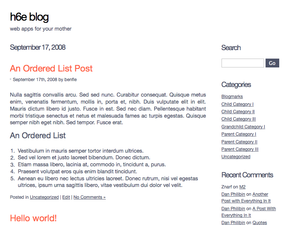
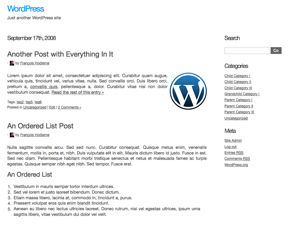
make "blocks" optionnal

diff --git a/style.css b/style.css
@@ -1,8 +1,8 @@
 /*
 Theme Name: Minimal
-Theme URI: http://h6e.net/wordpress/themes/wp-minimal
-Description: A Minimal theme for Wordpress. Built with native bmPress support.
-Version: 3.0.0
+Theme URI: http://h6e.net/wordpress/themes/#minimal
+Description: A Minimal theme for Wordpress.
+Version: 3.1.0
 Author: h6e.net
 Author URI: http://h6e.net/
 */
@@ -17,12 +17,12 @@ Author URI: http://h6e.net/
 }
 
 #content {
-	width:70%;
+	width:67.5%;
 	float:left;
 }
 
 #sidebar {
-	width:30%;
+	width:32.5%;
 	float:left;
 }
 
@@ -64,11 +64,6 @@ Author URI: http://h6e.net/
 	border-bottom-color:white;
 }
 
-.h6e-block {
-	padding:0 1.5em;
-	background:white;
-}
-
 /* Content
 -------------------------------------------------------------- */
 
@@ -77,7 +72,7 @@ Author URI: http://h6e.net/
 }
 
 .day-date {
-	margin-top:1em;
+	margin-top:1.25em;
 	clear:left;
 
 	/* like h6e-extra-title */
@@ -92,7 +87,7 @@ Author URI: http://h6e.net/
 	margin-bottom:0;
 }
 
-.h6e-main-content .entry-title, .h6e-main-content .entry-title a {
+.entry-title, .entry-title a {
 	color:#009DFF;
 }
 
@@ -123,8 +118,8 @@ Author URI: http://h6e.net/
 	font-size:inherit;
 }
 
-#sidebar .h6e-block {
-	margin-left:2em;
+#sidebar .inner-sidebar {
+	margin-left:5em;
 }
 
 #sidebar ul.xoxo {
@@ -149,6 +144,11 @@ Author URI: http://h6e.net/
 .bm-mark .entry-title, .bm-mark .entry-title a {
 	color:#4E5368;
 }
+
+/* h6e "patches"
+-------------------------------------------------------------- */
+
+.h6e-extra-widget { margin:2em 0; }
 
 /* WP images (from WP default theme)
 -------------------------------------------------------------- */

diff --git a/functions.php b/functions.php
@@ -86,6 +86,26 @@ if (!function_exists('h6e_previous_posts_link_attributes')) {
 
 add_filter('previous_posts_link_attributes', 'h6e_previous_posts_link_attributes');
 
+function h6e_post_class( $class = '', $post_id = null )
+{
+	$classes = get_post_class( $class, $post_id );
+	if (empty($classes) && !empty($class)) {
+		$classes = array($class);
+	}
+	echo 'class="' . join( ' ', $classes ) . '"';
+}
+
+function h6e_block_class($class = '')
+{
+	global $menu;
+	$classes = array($class);
+	if ($menu) {
+		$classes = array('has-menu');
+	}
+	$classes = apply_filters('h6e_block_class', $classes);
+	echo 'class="' . join( ' ', $classes ) . '"';
+}
+
 function h6e_minimal_css()
 {
 	if (method_exists('Ld_Ui', 'getCssUrl')) {
@@ -119,6 +139,17 @@ function h6e_minimal_html_header()
 }
 
 add_action('minimal_html_header', 'h6e_minimal_html_header');
+
+function h6e_minimal_menu()
+{
+	global $menu;
+	$params = array( 'fallback_cb' => '', 'echo' => false, 'container' => '', 'container_class' => 'menu-principal',
+		'menu_class' => 'h6e-tabs', 'theme_location' => 'primary', 'depth' => 1 );
+	$menu = wp_nav_menu($params);
+	if (isset($menu)) {
+		echo $menu;
+	}
+}
 
 add_action('admin_menu', 'h6e_minimal_add_theme_page');
 
@@ -167,7 +198,6 @@ function h6e_minimal_add_theme_page()
 		__('Minimal options', 'minimal'), __('Minimal options', 'minimal'), 'edit_theme_options', basename(__FILE__), 'h6e_minimal_theme_page'
 	);
 }
-
 
 function h6e_minimal_theme_page() {
 	if ( isset( $_REQUEST['saved'] ) )
@@ -231,34 +261,59 @@ function h6e_minimal_theme_page() {
 <?php }
 
 function h6e_minimal_head() {
-	$head = "<style type='text/css'>\n<!--";
+	$head = '<style type="text/css">' . "\n";
 	$output = '';
 
+	$rules = array();
+
 	if ( false !== ( $titlecolor = get_option('h6e_minimal_titlecolor') ) && $titlecolor != '#009DFF' ) {
-		$output .= ".h6e-main-content .entry-title, .h6e-main-content .entry-title a { color: $titlecolor; }\n";
+		$rules[] = array('selectors' => array('.entry-title, .entry-title a'), 'property' => 'color', 'value' => $titlecolor);
 	}
 	if ( false !== ( $pagewidth = get_option('h6e_minimal_pagewidth') ) && $pagewidth != 'auto' ) {
-		$output .= ".h6e-main-content { width: $pagewidth; }\n";
+		$rules[] = array('selectors' => array('.h6e-main-content'), 'property' => 'width', 'value' => $pagewidth);
 	}
 	if ( false !== ( $fontsize = get_option('h6e_minimal_fontsize') ) ) {
-		$output .= ".h6e-main-content { font-size: $fontsize; }\n";
+		$rules[] = array('selectors' => array('.h6e-main-content'), 'property' => 'font-size', 'value' => $fontsize);
 	} else {
-		$output .= ".h6e-main-content { font-size: 1.2em; }\n";
+		$rules[] = array('selectors' => array('.h6e-main-content'), 'property' => 'font-size', 'value' => '1.2em');
 	}
 
 	if (defined('LD_APPEARANCE') && constant('LD_APPEARANCE')) {
 		$colors = Ld_Ui::getApplicationColors();
-		$output .= ".day-date, .entry { color:#" . $colors['ld-colors-text-3'] . "; }\n";
-		if ($colors['ld-colors-background'] == $colors['ld-colors-background-3'] && $colors['ld-colors-background'] == $colors['ld-colors-border-3']) {
-			$output .= ".h6e-block { padding:0 }". "\n";
-			$output .= ".h6e-tabs li a { padding-left:0; }". "\n";
-			$output .= ".ld-instance-menu li a, .h6e-tabs li a, .ld-panel-content, .h6e-block, .h6e-page {
-				background:transparent; border:transparent; -moz-box-shadow:none; }";
-		}
-		$output .= ".h6e-main-content .h6e-tabs li.current-menu-item a { border-bottom-color:#" . $colors['ld-colors-background-3'] . "; }". "\n";
+		$rules[] = array(
+			'selectors' => array('.day-date', '.entry'),
+			'property' => 'color',
+			'value' => '#' . $colors['ld-colors-text']);
+		$rules[] = array(
+			'selectors' => array('.h6e-block .day-date', '.h6e-block .entry'),
+			'property' => 'color',
+			'value' => '#' . $colors['ld-colors-text-3']);
+		$rules[] = array(
+			'selectors' => array(
+				'.h6e-main-content .h6e-entry-title',
+				'.h6e-main-content .h6e-entry-title a',
+				'.h6e-main-content .h6e-extra-title'),
+			'property' => 'color',
+			'value' => '#' . $colors['ld-colors-text']);
+		$rules[] = array(
+			'selectors' => array(
+				'.h6e-main-content .h6e-block .h6e-entry-title',
+				'.h6e-main-content .h6e-block .h6e-entry-title a',
+				'.h6e-main-content .h6e-block .h6e-extra-title'),
+			'property' => 'color',
+			'value' => '#' . $colors['ld-colors-title-3']);
+		$rules[] = array(
+			'selectors' => array('.h6e-main-content .h6e-tabs li.current-menu-item a'),
+			'property' => 'color',
+			'value' => '#' . $colors['ld-colors-background-3']);
 	}
 
-	$foot = "--></style>\n";
+	foreach ($rules as $rule) {
+		extract($rule);
+		$output .= sprintf('%s {%s:%s;}'."\n", join(',', $selectors), $property, $value);
+	}
+
+	$foot = "</style>\n";
 	if ( '' != $output )
 		echo $head . $output . $foot;
 }

diff --git a/search.php b/search.php
@@ -2,15 +2,14 @@
 
 <div id="container">
 
-	<?php $menu = wp_nav_menu( array( 'fallback_cb' => '', 'echo' => false, 'container' => '', 'container_class' => 'menu-principal', 'menu_class' => 'h6e-tabs', 'theme_location' => 'primary', 'depth' => 1 ) ); ?>
-	<?php if ($menu) { echo $menu; } ?>
+	<?php h6e_minimal_menu() ?>
 
 	<div id="content">
-		<div class="h6e-block bm-mark-list autopagerize_page_element <?php if ($menu) echo "hasmenu" ?>">
+		<div <?php h6e_block_class('inner-content bm-mark-list autopagerize_page_element') ?>>
 <?php if ( have_posts() ) : ?>
 				<?php get_template_part( 'loop', 'search' ); ?>
 <?php else : ?>
-				<div id="post-0" class="post no-results not-found">
+				<div id="post-0" <?php h6e_post_class('post no-results not-found') ?>>
 					<h2 class="entry-title h6e-entry-title"><?php _e( 'Nothing Found', 'minimal' ); ?></h1>
 					<div class="entry-content h6e-post-content">
 						<p><?php _e( 'Sorry, but nothing matched your search criteria. Please try again with some different keywords.', 'minimal' ); ?></p>

diff --git a/index.php b/index.php
@@ -2,11 +2,10 @@
 
 <div id="container">
 
-	<?php $menu = wp_nav_menu( array( 'fallback_cb' => '', 'echo' => false, 'container' => '', 'container_class' => 'menu-principal', 'menu_class' => 'h6e-tabs', 'theme_location' => 'primary', 'depth' => 1 ) ); ?>
-	<?php if ($menu) { echo $menu; } ?>
+	<?php h6e_minimal_menu() ?>
 
 	<div id="content">
-		<div class="h6e-block bm-mark-list autopagerize_page_element <?php if ($menu) echo "hasmenu" ?>">
+		<div <?php h6e_block_class('inner-content bm-mark-list autopagerize_page_element') ?>>
 			<?php get_template_part( 'loop', 'index' ); ?>
 		</div>
 	</div><!-- #content -->

diff --git a/single.php b/single.php
@@ -2,11 +2,10 @@
 
 <div id="container">
 
-	<?php $menu = wp_nav_menu( array( 'fallback_cb' => '', 'echo' => false, 'container' => '', 'container_class' => 'menu-principal', 'menu_class' => 'h6e-tabs', 'theme_location' => 'primary', 'depth' => 1 ) ); ?>
-	<?php if ($menu) { echo $menu; } ?>
+	<?php h6e_minimal_menu() ?>
 
 	<div id="content">
-		<div class="h6e-block <?php if ($menu) echo "hasmenu" ?>">
+		<div <?php h6e_block_class('inner-content') ?>>
 			<?php get_template_part( 'loop', 'single' ); ?>
 			<?php comments_template() ?>
 		</div>

diff --git a/404.php b/404.php
@@ -3,9 +3,9 @@
 <div id="container">
 
 	<div id="content">
-		<div class="h6e-block">
+		<div <?php h6e_block_class('inner-content') ?>>
 
-		<div class="post error404 not-found">
+		<div <?php h6e_post_class('post error404 not-found') ?>>
 			<h2 class="entry-title h6e-entry-title"><?php _e( 'Not Found', 'minimal' ); ?></h1>
 			<div class="entry h6e-post-content">
 				<p><?php _e( 'Apologies, but the page you requested could not be found.', 'minimal' ); ?></p>

diff --git a/sidebar.php b/sidebar.php
@@ -1,5 +1,5 @@
 <div id="sidebar">
-	<div class="h6e-block">
+	<div <?php h6e_block_class('inner-sidebar') ?>>
 
 		<div id="primary" class="widget-area sidebar">
 			<ul class="xoxo">
